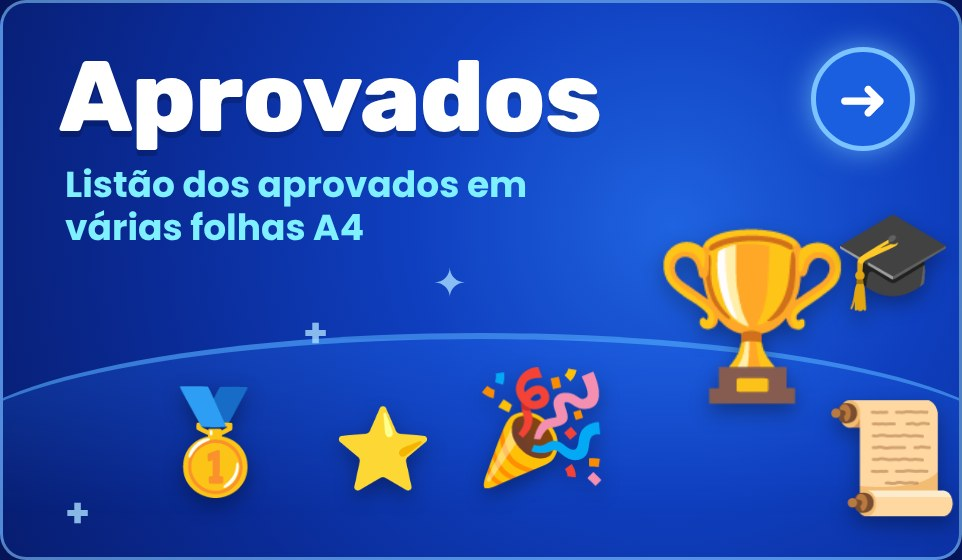
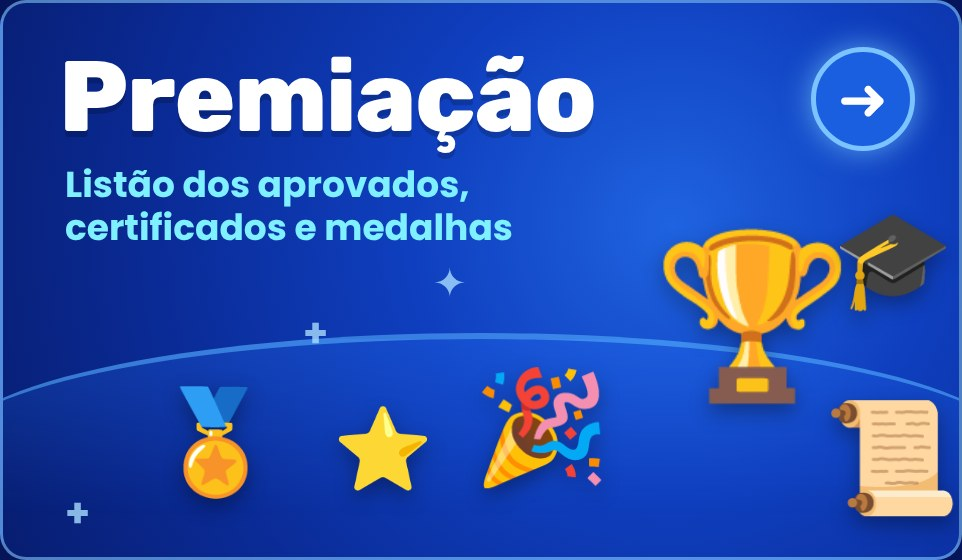
Premiação: certificados Aluno Nota 10 e Aluno Destaque (AEE) e folha de medalhas no modelo da escola, em PDF e Word
Claude-Session: https://claude.ai/code/session_01EnA51XFdjbCxLqLpJXARBK

diff --git a/certificados.js b/certificados.js
@@ -1,0 +1,166 @@
+/* Certificados (Aluno Nota 10 e Aluno Destaque/AEE) e folha de medalhas, no modelo da escola */
+(function () {
+  'use strict';
+  const $ = s => document.querySelector(s);
+  const esc = s => String(s == null ? '' : s).replace(/[&<>"]/g, c => ({ '&': '&amp;', '<': '&lt;', '>': '&gt;', '"': '&quot;' }[c]));
+  const P = 'assets/premiacao/', V = '?v=1';
+  const TIPOS = { nota10: { nome: 'Aluno Nota 10', fundo: P + 'cert-nota10.jpg' + V, medalha: 'ALUNO NOTA 10', cor: '#1e4fb8' }, destaque: { nome: 'Aluno Destaque (AEE)', fundo: P + 'cert-destaque.jpg' + V, medalha: 'ALUNO DESTAQUE', cor: '#ef6c00' } };
+  const TEXTO = 'É com muita honra que o SEI (Sistema de Ensino Incentivo) parabeniza o(a) prezado(a) aluno(a) {NOME}, pela sua dedicação e desempenho no {BIMESTRE} Bimestre de {ANO}.';
+  const CHAVE = 'sei-certificados';
+  const anoPad = () => { const d = new Date(); return String(d.getMonth() >= 1 ? d.getFullYear() : d.getFullYear() - 1); };
+  let st = { bim: '3º', ano: anoPad(), texto: TEXTO, nota10: '', destaque: '' };
+  try { Object.assign(st, JSON.parse(localStorage.getItem(CHAVE) || '{}')); } catch (e) {}
+  const guardar = () => { try { localStorage.setItem(CHAVE, JSON.stringify(st)); } catch (e) {} };
+  const nomes = tipo => (st[tipo] || '').split(/\r?\n/).map(s => s.replace(/^\s*\d+[\s.)-]*/, '').trim().toUpperCase()).filter(Boolean);
+  const carregar = (g, src) => window[g] ? Promise.resolve() : new Promise((ok, er) => { const s = document.createElement('script'); s.src = src; s.onload = ok; s.onerror = er; document.head.append(s); });
+  const imagem = src => new Promise((ok, er) => { const i = new Image(); i.onload = () => ok(i); i.onerror = er; i.src = src; });
+
+  /* ---------- texto do certificado (justificado, nome em negrito itálico) ---------- */
+  // medidas do modelo, em pontos (folha A4 deitada 842 × 595)
+  const G = { x: 20, w: 805, base: 291.5, tam: 28.7, entre: 40.6, maxLin: 4, esc: .785 }; // esc: letra condensada como no modelo (80%)
+  function pedacos(nome) {
+    const t = (st.texto || TEXTO).replace(/\{BIMESTRE\}/g, st.bim).replace(/\{ANO\}/g, st.ano), [a, b = ''] = t.split('{NOME}'), out = [];
+    const poe = (s, f) => s.split(/\s+/).filter(Boolean).forEach(w => out.push({ t: w, f })); poe(a, 'bold');
+    nome.split(/\s+/).filter(Boolean).forEach(w => out.push({ t: w, f: 'bolditalic' }));
+    const m = /^([,.;:!?]+)(.*)$/s.exec(b); if (m) { out.push({ t: m[1], f: 'bold', cola: true }); poe(m[2], 'bold'); } else poe(b, 'bold');
+    return out;
+  }
+  // quebra em linhas; mede(texto, fonte) devolve a largura no tamanho atual
+  function linhas(tk, mede, larg) {
+    const ls = [[]]; let w = 0; const esp = mede(' ', 'bold');
+    tk.forEach(p => { const pw = mede(p.t, p.f), add = (ls[ls.length - 1].length && !p.cola ? esp : 0) + pw; if (w + add > larg && ls[ls.length - 1].length && !p.cola) { ls.push([]); w = 0; } ls[ls.length - 1].push(Object.assign({ w: pw }, p)); w += (ls[ls.length - 1].length > 1 && !p.cola ? esp : 0) + pw; });
+    return ls;
+  }
+  function escreve(doc, nome) {
+    const tk = pedacos(nome); let tam = G.tam, ls;
+    const mede = (t, f) => { doc.setFont('times', f); doc.setFontSize(tam); return doc.getTextWidth(t) * G.esc; };
+    for (;;) { ls = linhas(tk, mede, G.w); if (ls.length <= G.maxLin || tam < 16) break; tam -= 1; }
+    const lh = G.entre * tam / G.tam; doc.setTextColor(0, 0, 0); doc.internal.write(`${G.esc * 100} Tz`);
+    ls.forEach((l, i) => { const ultima = i === ls.length - 1, gaps = l.filter((p, k) => k && !p.cola).length, soma = l.reduce((s, p) => s + p.w, 0), esp = mede(' ', 'bold');
+      const extra = ultima || !gaps ? esp : (G.w - soma) / gaps; let x = G.x; const y = G.base + i * lh;
+      l.forEach((p, k) => { if (k && !p.cola) x += extra; doc.setFont('times', p.f); doc.setFontSize(tam); doc.text(p.t, x, y); x += p.w; }); });
+    doc.internal.write('100 Tz');
+  }
+
+  /* ---------- medalha ---------- */
+  let baseMed = null;
+  async function medalha(tipo) {
+    if (!baseMed) baseMed = await imagem(P + 'medalha-base.png' + V);
+    if (document.fonts) await document.fonts.load('40px SeiRubik');
+    const cv = document.createElement('canvas'); cv.width = baseMed.width; cv.height = baseMed.height; const g = cv.getContext('2d'); g.drawImage(baseMed, 0, 0);
+    const W = cv.width, k = W / 93.96, linha = (txt, tam, y, max) => { const f = tam * k; g.font = `${f}px SeiRubik, "Arial Black", sans-serif`; const sx = Math.min(.86, max * W / g.measureText(txt).width);
+      g.save(); g.translate(W / 2, y * k); g.scale(sx, 1); g.textAlign = 'center'; g.textBaseline = 'middle'; g.lineJoin = 'round'; g.lineWidth = f * .2; g.strokeStyle = '#231f20'; g.strokeText(txt, 0, 0); g.fillStyle = '#fff200'; g.fillText(txt, 0, 0); g.restore(); };
+    linha(`${TIPOS[tipo].medalha} (${st.ano})`, 10.2, 32.6, .84); linha(`${st.bim} BIMESTRE`, 6.6, 43.2, .34);
+    return cv;
+  }
+  // folha A4 em pé: 6 por linha, 8 linhas (48 por folha), no tamanho do modelo (33 mm)
+  const MED = { d: 93.97, h: 96.13, passoX: 95.24, passoY: 99.21, x0: 12.7, y0: 22.7, col: 6, lin: 8 };
+  async function medalhasLista() { const l = []; for (const t of ['nota10', 'destaque']) { const n = nomes(t).length; if (!n) continue; const cv = await medalha(t), url = cv.toDataURL('image/png'); for (let i = 0; i < n; i++) l.push({ t, url }); } return l; }
+
+  /* ---------- PDF ---------- */
+  const novoPdf = async (o) => { await carregar('html2pdf', 'assets/vendor/html2pdf.bundle.min.js'); return html2pdf().set({ jsPDF: { unit: 'pt', format: 'a4', orientation: o } }).from('<div></div>').toPdf().get('pdf'); };
+  async function certificadosPdf() {
+    const todos = ['nota10', 'destaque'].flatMap(t => nomes(t).map(n => [t, n])); if (!todos.length) return alert('Coloque pelo menos um nome.');
+    const doc = await novoPdf('l'), fundos = {};
+    for (const [i, [t, n]] of todos.entries()) { if (i) doc.addPage('a4', 'l'); if (!fundos[t]) fundos[t] = await imagem(TIPOS[t].fundo); doc.addImage(fundos[t], 'JPEG', 0, 0, 841.89, 595.28, 'f-' + t, 'FAST'); escreve(doc, n); }
+    doc.save(`Certificados-${st.bim}-Bimestre-${st.ano}.pdf`);
+  }
+  async function medalhasPdf() {
+    const l = await medalhasLista(); if (!l.length) return alert('Coloque pelo menos um nome.');
+    const doc = await novoPdf('p'), por = MED.col * MED.lin;
+    l.forEach((m, i) => { if (i && i % por === 0) doc.addPage('a4', 'p'); const j = i % por, c = j % MED.col, r = Math.floor(j / MED.col); doc.addImage(m.url, 'PNG', MED.x0 + c * MED.passoX, MED.y0 + r * MED.passoY, MED.d, MED.h, 'm-' + m.t, 'FAST'); });
+    doc.save(`Medalhas-${st.bim}-Bimestre-${st.ano}.pdf`);
+  }
+
+  /* ---------- Word ---------- */
+  const X = t => String(t).replace(/&/g, '&amp;').replace(/</g, '&lt;').replace(/>/g, '&gt;');
+  const NS = 'xmlns:w="http://schemas.openxmlformats.org/wordprocessingml/2006/main" xmlns:r="http://schemas.openxmlformats.org/officeDocument/2006/relationships" xmlns:wp="http://schemas.openxmlformats.org/drawingml/2006/wordprocessingDrawing" xmlns:a="http://schemas.openxmlformats.org/drawingml/2006/main" xmlns:pic="http://schemas.openxmlformats.org/drawingml/2006/picture"';
+  const desenho = (rid, id, cx, cy, ancorado) => { const g = `<a:graphic xmlns:a="http://schemas.openxmlformats.org/drawingml/2006/main"><a:graphicData uri="http://schemas.openxmlformats.org/drawingml/2006/picture"><pic:pic xmlns:pic="http://schemas.openxmlformats.org/drawingml/2006/picture"><pic:nvPicPr><pic:cNvPr id="${id}" name="Imagem ${id}"/><pic:cNvPicPr/></pic:nvPicPr><pic:blipFill><a:blip r:embed="${rid}"/><a:stretch><a:fillRect/></a:stretch></pic:blipFill><pic:spPr><a:xfrm><a:off x="0" y="0"/><a:ext cx="${cx}" cy="${cy}"/></a:xfrm><a:prstGeom prst="rect"><a:avLst/></a:prstGeom></pic:spPr></pic:pic></a:graphicData></a:graphic>`;
+    return ancorado ? `<w:r><w:drawing><wp:anchor distT="0" distB="0" distL="0" distR="0" simplePos="0" relativeHeight="1" behindDoc="1" locked="1" layoutInCell="1" allowOverlap="1"><wp:simplePos x="0" y="0"/><wp:positionH relativeFrom="page"><wp:posOffset>0</wp:posOffset></wp:positionH><wp:positionV relativeFrom="page"><wp:posOffset>0</wp:posOffset></wp:positionV><wp:extent cx="${cx}" cy="${cy}"/><wp:effectExtent l="0" t="0" r="0" b="0"/><wp:wrapNone/><wp:docPr id="${id}" name="Fundo ${id}"/><wp:cNvGraphicFramePr/>${g}</wp:anchor></w:drawing></w:r>`
+      : `<w:r><w:drawing><wp:inline distT="0" distB="0" distL="0" distR="0"><wp:extent cx="${cx}" cy="${cy}"/><wp:docPr id="${id}" name="Medalha ${id}"/><wp:cNvGraphicFramePr/>${g}</wp:inline></w:drawing></w:r>`; };
+  async function docx(corpo, midias, cabecalhos) {
+    await carregar('JSZip', 'assets/vendor/jszip.min.js'); const z = new JSZip();
+    z.file('[Content_Types].xml', `<?xml version="1.0" encoding="UTF-8" standalone="yes"?><Types xmlns="http://schemas.openxmlformats.org/package/2006/content-types"><Default Extension="rels" ContentType="application/vnd.openxmlformats-package.relationships+xml"/><Default Extension="xml" ContentType="application/xml"/><Default Extension="png" ContentType="image/png"/><Default Extension="jpeg" ContentType="image/jpeg"/><Override PartName="/word/document.xml" ContentType="application/vnd.openxmlformats-officedocument.wordprocessingml.document.main+xml"/><Override PartName="/word/settings.xml" ContentType="application/vnd.openxmlformats-officedocument.wordprocessingml.settings+xml"/>${cabecalhos.map((h, i) => `<Override PartName="/word/header${i + 1}.xml" ContentType="application/vnd.openxmlformats-officedocument.wordprocessingml.header+xml"/>`).join('')}</Types>`);
+    z.file('_rels/.rels', '<?xml version="1.0" encoding="UTF-8" standalone="yes"?><Relationships xmlns="http://schemas.openxmlformats.org/package/2006/relationships"><Relationship Id="rId1" Type="http://schemas.openxmlformats.org/officeDocument/2006/relationships/officeDocument" Target="word/document.xml"/></Relationships>');
+    z.file('word/settings.xml', '<?xml version="1.0" encoding="UTF-8" standalone="yes"?><w:settings xmlns:w="http://schemas.openxmlformats.org/wordprocessingml/2006/main"><w:zoom w:percent="100"/><w:compat><w:compatSetting w:name="compatibilityMode" w:uri="http://schemas.microsoft.com/office/word" w:val="15"/></w:compat></w:settings>');
+    let rels = '<?xml version="1.0" encoding="UTF-8" standalone="yes"?><Relationships xmlns="http://schemas.openxmlformats.org/package/2006/relationships"><Relationship Id="rSet" Type="http://schemas.openxmlformats.org/officeDocument/2006/relationships/settings" Target="settings.xml"/>';
+    for (const m of midias) { z.file('word/media/' + m.arq, m.dados); rels += `<Relationship Id="${m.rid}" Type="http://schemas.openxmlformats.org/officeDocument/2006/relationships/image" Target="media/${m.arq}"/>`; }
+    cabecalhos.forEach((h, i) => { if (h.dados) z.file('word/media/' + h.arq, h.dados); z.file(`word/header${i + 1}.xml`, `<?xml version="1.0" encoding="UTF-8" standalone="yes"?><w:hdr ${NS}><w:p><w:pPr><w:spacing w:before="0" w:after="0"/></w:pPr>${h.xml}</w:p></w:hdr>`); z.file(`word/_rels/header${i + 1}.xml.rels`, `<?xml version="1.0" encoding="UTF-8" standalone="yes"?><Relationships xmlns="http://schemas.openxmlformats.org/package/2006/relationships"><Relationship Id="${h.rid}" Type="http://schemas.openxmlformats.org/officeDocument/2006/relationships/image" Target="media/${h.arq}"/></Relationships>`); rels += `<Relationship Id="rH${i + 1}" Type="http://schemas.openxmlformats.org/officeDocument/2006/relationships/header" Target="header${i + 1}.xml"/>`; });
+    z.file('word/_rels/document.xml.rels', rels + '</Relationships>');
+    z.file('word/document.xml', `<?xml version="1.0" encoding="UTF-8" standalone="yes"?><w:document ${NS}><w:body>${corpo}</w:body></w:document>`);
+    return z.generateAsync({ type: 'blob', mimeType: 'application/vnd.openxmlformats-officedocument.wordprocessingml.document' });
+  }
+  const baixar = (blob, nome) => { const a = document.createElement('a'); a.href = URL.createObjectURL(blob); a.download = nome; document.body.append(a); a.click(); a.remove(); setTimeout(() => URL.revokeObjectURL(a.href), 5000); };
+  const bytes = async src => (await fetch(src)).arrayBuffer();
+  async function certificadosWord() {
+    const grupos = ['nota10', 'destaque'].map(t => [t, nomes(t)]).filter(g => g[1].length); if (!grupos.length) return alert('Coloque pelo menos um nome.');
+    const midias = [], cabs = []; let corpo = '';
+    const rPr = it => `<w:rPr><w:rFonts w:ascii="Times New Roman" w:hAnsi="Times New Roman" w:cs="Times New Roman"/><w:b/>${it ? '<w:i/>' : ''}<w:w w:val="80"/><w:sz w:val="57"/></w:rPr>`;
+    for (const [gi, [t, ns]] of grupos.entries()) {
+      const arq = `fundo-${t}.jpeg`, rid = 'rF' + gi; midias.push({ arq, rid: 'rDoc' + gi, dados: await bytes(TIPOS[t].fundo) }); cabs.push({ rid, arq, xml: desenho(rid, 900 + gi, 10692000, 7560000, true) });
+      ns.forEach((n, i) => { const txt = (st.texto || TEXTO).replace(/\{BIMESTRE\}/g, st.bim).replace(/\{ANO\}/g, st.ano), [a, b = ''] = txt.split('{NOME}'), ult = i === ns.length - 1, fimSec = ult;
+        const sect = `<w:sectPr><w:headerReference w:type="default" r:id="rH${gi + 1}"/><w:pgSz w:w="16838" w:h="11906" w:orient="landscape"/><w:pgMar w:top="5180" w:right="340" w:bottom="400" w:left="400" w:header="0" w:footer="0" w:gutter="0"/></w:sectPr>`;
+        const pPr = `<w:pPr>${i ? '<w:pageBreakBefore/>' : ''}<w:spacing w:before="0" w:after="0" w:line="812" w:lineRule="exact"/><w:jc w:val="both"/>${fimSec && gi < grupos.length - 1 ? sect : ''}</w:pPr>`;
+        corpo += `<w:p>${pPr}<w:r>${rPr(0)}<w:t xml:space="preserve">${X(a)}</w:t></w:r><w:r>${rPr(1)}<w:t xml:space="preserve">${X(n)}</w:t></w:r><w:r>${rPr(0)}<w:t xml:space="preserve">${X(b)}</w:t></w:r></w:p>`;
+        if (fimSec && gi === grupos.length - 1) corpo += sect; });
+    }
+    // as imagens de fundo ficam nos cabeçalhos (cada tipo com o seu)
+    const z = await docx(corpo, [], cabs.map((c, i) => Object.assign(c, { dados: midias[i].dados })));
+    baixar(z, `Certificados-${st.bim}-Bimestre-${st.ano}.docx`);
+  }
+  async function medalhasWord() {
+    const l = await medalhasLista(); if (!l.length) return alert('Coloque pelo menos um nome.');
+    const midias = [], rid = {}; let id = 1;
+    for (const t of [...new Set(l.map(m => m.t))]) { const url = l.find(m => m.t === t).url; rid[t] = 'rM' + t; midias.push({ arq: `medalha-${t}.png`, rid: rid[t], dados: await (await fetch(url)).arrayBuffer() }); }
+    const cx = Math.round(MED.d * 12700), cy = Math.round(MED.h * 12700), colW = Math.round(MED.passoX * 20), linH = Math.round(MED.passoY * 20); let corpo = '';
+    for (let i = 0; i < l.length; i += MED.col) { const lin = l.slice(i, i + MED.col);
+      corpo += `<w:tr><w:trPr><w:cantSplit/><w:trHeight w:val="${linH}" w:hRule="exact"/></w:trPr>${Array.from({ length: MED.col }, (_, k) => `<w:tc><w:tcPr><w:tcW w:w="${colW}" w:type="dxa"/><w:vAlign w:val="center"/></w:tcPr><w:p><w:pPr><w:spacing w:before="0" w:after="0"/><w:jc w:val="center"/></w:pPr>${lin[k] ? desenho(rid[lin[k].t], id++, cx, cy, false) : ''}</w:p></w:tc>`).join('')}</w:tr>`; }
+    const tbl = `<w:tbl><w:tblPr><w:tblW w:w="${colW * MED.col}" w:type="dxa"/><w:jc w:val="center"/><w:tblLayout w:type="fixed"/><w:tblCellMar><w:left w:w="0" w:type="dxa"/><w:right w:w="0" w:type="dxa"/></w:tblCellMar></w:tblPr><w:tblGrid>${`<w:gridCol w:w="${colW}"/>`.repeat(MED.col)}</w:tblGrid>${corpo}</w:tbl>`;
+    const sect = '<w:sectPr><w:pgSz w:w="11906" w:h="16838"/><w:pgMar w:top="454" w:right="226" w:bottom="226" w:left="226" w:header="0" w:footer="0" w:gutter="0"/></w:sectPr>';
+    baixar(await docx(tbl + '<w:p/>' + sect, midias, []), `Medalhas-${st.bim}-Bimestre-${st.ano}.docx`);
+  }
+
+  /* ---------- puxar do diário e do AEE ---------- */
+  async function puxarNota10() {
+    const D = window.seiDados; if (!D) return alert('Cadastro indisponível neste aparelho.'); const [al, bol] = await Promise.all([D.listar('alunos'), D.listar('boletins')]); const av = st.bim.replace('º', 'ª') + ' Avaliação';
+    const l = al.filter(a => { const ns = ((((bol.find(b => b.id === a.id) || {}).anos || {})[st.ano]) || {}).notas || {}; return Object.values(ns).some(d => +d[av] === 10); }).map(a => a.nome.toUpperCase()).sort();
+    if (!l.length) return alert(`Nenhum aluno com nota 10 na ${av} de ${st.ano} no diário deste aparelho. Digite os nomes.`); st.nota10 = l.join('\n'); guardar(); desenhar(); alert(l.length + ' aluno(s) com nota 10 na ' + av + '.');
+  }
+  async function puxarAee() {
+    const D = window.seiDados, l = new Set(); if (D) (await D.listar('alunos')).filter(a => a.aee && (a.situacao || 'Ativo') === 'Ativo').forEach(a => l.add(a.nome.toUpperCase()));
+    await new Promise(ok => { try { const r = indexedDB.open('sei-aee'); r.onsuccess = () => { const db = r.result; if (!db.objectStoreNames.contains('alunos')) return ok(); const q = db.transaction('alunos').objectStore('alunos').getAll(); q.onsuccess = () => { (q.result || []).forEach(a => a.nome && l.add(a.nome.toUpperCase())); ok(); }; q.onerror = ok; }; r.onerror = ok; } catch (e) { ok(); } });
+    if (!l.size) return alert('Nenhum aluno do AEE cadastrado neste aparelho. Digite os nomes.'); st.destaque = [...l].sort().join('\n'); guardar(); desenhar(); alert(l.size + ' aluno(s) do AEE.');
+  }
+
+  /* ---------- tela ---------- */
+  function previa(tipo, nome) {
+    const t = (st.texto || TEXTO).replace(/\{BIMESTRE\}/g, st.bim).replace(/\{ANO\}/g, st.ano), [a, b = ''] = t.split('{NOME}');
+    return `<div class="ct-folha" style="background-image:url(${TIPOS[tipo].fundo})"><p>${esc(a)}<i>${esc(nome)}</i>${esc(b)}</p></div>`;
+  }
+  function desenhar() {
+    const n1 = nomes('nota10'), n2 = nomes('destaque'), tot = n1.length + n2.length, folhasMed = Math.ceil(tot / (MED.col * MED.lin));
+    $('#ct').innerHTML = `<section class="es-sec"><h2>🏅 Certificados e medalhas</h2><p class="es-dica">No modelo da escola. Escolha o bimestre, coloque os nomes e baixe os <b>certificados</b> (um por folha A4 deitada) e a <b>folha de medalhas</b> (48 por folha A4, 3,3 cm cada) — em PDF ou Word.</p>
+      <form class="es-form" id="ct-f"><div class="es-g3"><label>Bimestre<select name="bim">${['1º', '2º', '3º', '4º'].map(b => `<option ${b === st.bim ? 'selected' : ''}>${b}</option>`).join('')}</select></label><label>Ano<input name="ano" inputmode="numeric" value="${esc(st.ano)}"></label></div>
+      <label>Texto do certificado <small>({NOME}, {BIMESTRE} e {ANO} são trocados sozinhos)</small><textarea name="texto" style="min-height:80px">${esc(st.texto)}</textarea></label><div class="es-acoes" style="margin:0"><button type="button" class="b" id="ct-padrao">↺ Texto padrão</button></div></form>
+      <div class="es-g2" style="margin-top:14px">
+        <div class="lt-turma" style="--c:#1e4fb8"><div class="es-linha"><b style="flex:1;font-size:17px">🔟 Aluno Nota 10</b><span class="chip">${n1.length}</span><button class="b" id="ct-p10">↧ Puxar do diário</button></div><textarea data-l="nota10" placeholder="Um nome por linha">${esc(st.nota10)}</textarea></div>
+        <div class="lt-turma" style="--c:#ef6c00"><div class="es-linha"><b style="flex:1;font-size:17px">⭐ Aluno Destaque (AEE)</b><span class="chip">${n2.length}</span><button class="b" id="ct-paee">↧ Puxar do AEE</button></div><textarea data-l="destaque" placeholder="Um nome por linha">${esc(st.destaque)}</textarea></div></div>
+      <div class="es-acoes" style="margin-top:14px"><button class="b main" id="ct-cpdf">📄 Certificados (PDF)</button><button class="b" id="ct-cdoc">⬇ Certificados (Word)</button><button class="b main" id="ct-mpdf">🏅 Medalhas (PDF)</button><button class="b" id="ct-mdoc">⬇ Medalhas (Word)</button></div>
+      <p class="es-dica">${tot ? `Vai gerar <b>${tot} certificado(s)</b> e <b>${tot} medalha(s)</b> em ${folhasMed} folha(s). Imprima em tamanho real (100%).` : 'Coloque os nomes para gerar.'}</p>
+      <h2 style="margin-top:10px">👀 Prévia</h2><div class="ct-prev">${n1.length ? previa('nota10', n1[0]) : ''}${n2.length ? previa('destaque', n2[0]) : ''}${!tot ? previa('nota10', 'NOME DO ALUNO') : ''}<div class="ct-meds" id="ct-meds"></div></div></section>`;
+    const f = $('#ct-f'); f.oninput = f.onchange = e => { const d = new FormData(f); const re = e.type === 'change' && (st.bim !== d.get('bim') || st.ano !== d.get('ano').trim()); Object.assign(st, { bim: d.get('bim'), ano: d.get('ano').trim(), texto: d.get('texto') }); guardar(); if (re) desenhar(); else document.querySelectorAll('.ct-folha p').forEach((p, i) => { const tipo = i === 1 || (!n1.length && n2.length) ? 'destaque' : 'nota10'; const nm = (tipo === 'nota10' ? n1[0] : n2[0]) || 'NOME DO ALUNO'; p.outerHTML = previa(tipo, nm).replace(/^<div[^>]*>|<\/div>$/g, ''); }); };
+    document.querySelectorAll('[data-l]').forEach(t => { t.oninput = () => { st[t.dataset.l] = t.value; guardar(); }; t.onchange = desenhar; });
+    ajustaPrev(); (async () => { const box = $('#ct-meds'); for (const t of ['nota10', 'destaque']) { if (!nomes(t).length && tot) continue; const cv = await medalha(t); cv.style.width = '110px'; cv.style.height = 'auto'; box.append(cv); } })();
+  }
+  function ajustaPrev() { document.querySelectorAll('.ct-folha').forEach(d => { d.style.fontSize = (d.clientWidth * G.tam / 842) + 'px'; }); }
+  addEventListener('resize', ajustaPrev);
+  document.addEventListener('click', async e => {
+    const b = e.target.closest('button'); if (!b || !b.id.startsWith('ct-')) return;
+    if (b.id === 'ct-padrao') { st.texto = TEXTO; guardar(); return desenhar(); }
+    if (b.id === 'ct-p10') return puxarNota10();
+    if (b.id === 'ct-paee') return puxarAee();
+    const fn = { 'ct-cpdf': certificadosPdf, 'ct-cdoc': certificadosWord, 'ct-mpdf': medalhasPdf, 'ct-mdoc': medalhasWord }[b.id]; if (!fn) return;
+    const t0 = b.textContent; b.disabled = true; b.textContent = '⏳ Gerando…'; try { await fn(); } catch (er) { alert('Não consegui gerar: ' + (er && er.message || er)); } b.disabled = false; b.textContent = t0;
+  });
+  desenhar();
+})();

diff --git a/portal.js b/portal.js
@@ -8,7 +8,7 @@ const labels=['Fundamental I — 1º ao 5º ano','Fundamental II — 6º ao 9º 
 const home=document.createElement('section');home.className='portal-home';home.setAttribute('aria-label','Biblioteca Digital SEI — materiais da escola');
 home.innerHTML='<img class="portal-art" src="'+art+'" alt="Mascote e logomarca SEI. Aqui se faz educação com qualidade. Biblioteca Digital SEI. Materiais da escola."><div class="brand-shimmer" aria-hidden="true"></div><div class="mascot-motion" aria-hidden="true"></div><button class="motion-toggle" aria-pressed="false">Pausar animações</button>';
 labels.forEach((label,i)=>{const b=document.createElement('button');b.className='portal-entry entry-'+i;b.setAttribute('aria-label',label);b.innerHTML='<span class="sr-only">'+label+'</span>';if(i===2||i===3){const label=document.createElement('span');label.className='series-home-label';label.textContent=i===2?'1ª e 2ª série':'3ª série (Convênio)';b.append(label)}b.onclick=()=>go(i,null,null);home.append(b)});
-{const ex=document.createElement('nav');ex.className='home-extra';ex.setAttribute('aria-label','Atendimento e gestão');ex.innerHTML=[['#ensino','capa-ensino','Ensino — Fundamental, Médio e Pré-vestibular'],['aee.html','capa-aee','AEE — Atendimento Educacional Especializado'],['secretaria.html','capa-secretaria','Secretaria — documentos da escola'],['coordenacao.html','capa-coordenacao','Coordenação pedagógica'],['escola.html','capa-gestao','Gestão Escolar — prazos, cronograma, diário e cadastro'],['avisos.html','capa-avisos','Avisos e comunicados'],['pais.html','capa-pais','Área das Famílias — avisos, notas e documentos do seu filho'],['calendario.html','capa-calendario','Calendário escolar'],['horarios.html','capa-horario','Horário de aula'],['financeiro.html','capa-financeiro','Financeiro — contratos, recibos e pagamentos'],['material.html','capa-material','Material escolar — listas 2027'],['institucional.html','capa-institucional','Institucional — Regimento Escolar e PPP'],['listao.html','capa-listao','Aprovados — listão dos aprovados em várias folhas A4']].map(c=>'<a class="extra-card" href="'+c[0]+'" style="background-image:url(assets/portal/'+c[1]+'.jpg?v=2)"><span class="sr-only">'+c[2]+'</span></a>').join('');home.append(ex)}
+{const ex=document.createElement('nav');ex.className='home-extra';ex.setAttribute('aria-label','Atendimento e gestão');ex.innerHTML=[['#ensino','capa-ensino','Ensino — Fundamental, Médio e Pré-vestibular'],['aee.html','capa-aee','AEE — Atendimento Educacional Especializado'],['secretaria.html','capa-secretaria','Secretaria — documentos da escola'],['coordenacao.html','capa-coordenacao','Coordenação pedagógica'],['escola.html','capa-gestao','Gestão Escolar — prazos, cronograma, diário e cadastro'],['avisos.html','capa-avisos','Avisos e comunicados'],['pais.html','capa-pais','Área das Famílias — avisos, notas e documentos do seu filho'],['calendario.html','capa-calendario','Calendário escolar'],['horarios.html','capa-horario','Horário de aula'],['financeiro.html','capa-financeiro','Financeiro — contratos, recibos e pagamentos'],['material.html','capa-material','Material escolar — listas 2027'],['institucional.html','capa-institucional','Institucional — Regimento Escolar e PPP'],['listao.html','capa-listao','Premiação — listão dos aprovados, certificados e medalhas']].map(c=>'<a class="extra-card" href="'+c[0]+'" style="background-image:url(assets/portal/'+c[1]+'.jpg?v=2)"><span class="sr-only">'+c[2]+'</span></a>').join('');home.append(ex)}
 {const vb=document.createElement('button');vb.className='ensino-voltar';vb.textContent='‹ Início';vb.onclick=()=>{history.pushState(null,'',location.pathname);seiEnsino()};home.prepend(vb);
 home.querySelector('.home-extra a[href="#ensino"]').onclick=e=>{e.preventDefault();history.pushState(null,'','#ensino');seiEnsino();window.scrollTo({top:0})};}
 header.after(home);

diff --git a/sw.js b/sw.js
@@ -1,6 +1,6 @@
 /* Biblioteca SEI offline: guarda o site e os arquivos para usar sem internet. */
-const CORE = 'sei-core-v64', FILES = 'sei-arquivos-v6';
-const CORE_LIST = ['./', 'index.html', 'montar.html', 'montar.js', 'montar.css', 'portal.js', 'portal.css', 'impressao.js', 'impressao.css', 'formatacao.js', 'formulas.js', 'word-pb.js', 'avaliacao.js', 'aee.html', 'aee.js', 'aee.css', 'secretaria.html', 'coordenacao.html', 'material.html', 'assets/portal/capa-material.jpg', 'institucional.html', 'assets/portal/capa-institucional.jpg', 'escola.html', 'escola.js', 'escola.css', 'escola-dados.js', 'nuvem.js', 'nuvem-config.js', 'pais.html', 'pais.js', 'assets/portal/capa-gestao.jpg', 'assets/portal/capa-pais.jpg', 'listao.html', 'listao.js', 'assets/portal/capa-listao.jpg', 'assets/vendor/html2canvas-1.4.1.min.js', 'docs.js', 'docs.css', 'baixar-doc.js', 'folha-doc.js', 'editor-doc.js', 'contrato-modelo.js', 'assets/docs/folha-cab.jpg', 'assets/docs/folha-fundo.jpg', 'assets/docs/logo-sei.png', 'assets/docs/mascote-sei.png', 'assets/docs/selo-n1.png', 'assets/docs/logo-sei.jpg', 'avisos.html', 'calendario.html', 'horarios.html', 'financeiro.html', 'biblioteca.js', 'catalogo.js', 'sei-header-art.js', 'sei-standard.js', 'modelo-word.js', 'ajustar-word.js','aulas.html','aulas.js','aulas.css','aulas-dados.js','montar-aula.js','assets/bncc/bncc.json', 'manifest.webmanifest', 'assets/vendor/jszip.min.js', 'assets/vendor/mammoth.browser.min.js', 'assets/montar/molduras.json', 'assets/portal/icone-192.png', 'assets/portal/icone-512.png','assets/portal/entrada-sei-v2.png'];
+const CORE = 'sei-core-v65', FILES = 'sei-arquivos-v6';
+const CORE_LIST = ['./', 'index.html', 'montar.html', 'montar.js', 'montar.css', 'portal.js', 'portal.css', 'impressao.js', 'impressao.css', 'formatacao.js', 'formulas.js', 'word-pb.js', 'avaliacao.js', 'aee.html', 'aee.js', 'aee.css', 'secretaria.html', 'coordenacao.html', 'material.html', 'assets/portal/capa-material.jpg', 'institucional.html', 'assets/portal/capa-institucional.jpg', 'escola.html', 'escola.js', 'escola.css', 'escola-dados.js', 'nuvem.js', 'nuvem-config.js', 'pais.html', 'pais.js', 'assets/portal/capa-gestao.jpg', 'assets/portal/capa-pais.jpg', 'listao.html', 'listao.js', 'certificados.html', 'certificados.js', 'assets/premiacao/cert-nota10.jpg', 'assets/premiacao/cert-destaque.jpg', 'assets/premiacao/medalha-base.png', 'assets/portal/capa-listao.jpg', 'assets/vendor/html2canvas-1.4.1.min.js', 'docs.js', 'docs.css', 'baixar-doc.js', 'folha-doc.js', 'editor-doc.js', 'contrato-modelo.js', 'assets/docs/folha-cab.jpg', 'assets/docs/folha-fundo.jpg', 'assets/docs/logo-sei.png', 'assets/docs/mascote-sei.png', 'assets/docs/selo-n1.png', 'assets/docs/logo-sei.jpg', 'avisos.html', 'calendario.html', 'horarios.html', 'financeiro.html', 'biblioteca.js', 'catalogo.js', 'sei-header-art.js', 'sei-standard.js', 'modelo-word.js', 'ajustar-word.js','aulas.html','aulas.js','aulas.css','aulas-dados.js','montar-aula.js','assets/bncc/bncc.json', 'manifest.webmanifest', 'assets/vendor/jszip.min.js', 'assets/vendor/mammoth.browser.min.js', 'assets/montar/molduras.json', 'assets/portal/icone-192.png', 'assets/portal/icone-512.png','assets/portal/entrada-sei-v2.png'];
 self.addEventListener('install', e => { e.waitUntil(caches.open(CORE).then(c => Promise.all(CORE_LIST.map(u => c.add(u).catch(() => null)))).then(() => self.skipWaiting())); });
 self.addEventListener('activate', e => { e.waitUntil(caches.keys().then(ks => Promise.all(ks.filter(k => k !== CORE && k !== FILES).map(k => caches.delete(k)))).then(() => self.clients.claim())); });
 const isFile = u => /\/assets\//.test(u.pathname);

diff --git a/certificados.html b/certificados.html
@@ -1,0 +1,39 @@
+<!doctype html>
+<html lang="pt-BR">
+<head>
+<meta charset="utf-8">
+<meta name="viewport" content="width=device-width,initial-scale=1">
+<title>Certificados e Medalhas · SEI</title>
+<link rel="manifest" href="manifest.webmanifest">
+<meta name="theme-color" content="#0b2a5b">
+<meta name="robots" content="noindex">
+<link rel="stylesheet" href="aulas.css?v=3-aval">
+<link rel="stylesheet" href="escola.css?v=2">
+<link rel="icon" type="image/png" href="favicon.png?v=2"><link rel="apple-touch-icon" href="assets/portal/apple-touch-icon.png?v=2">
+<style>
+@font-face{font-family:SeiRubik;src:url(assets/fonts/Rubik-ExtraBold.ttf)}
+.lt-turma{background:#fff;border-radius:14px;padding:12px;box-shadow:0 2px 10px rgba(11,42,91,.10);border-left:6px solid var(--c,#1e4fb8);display:flex;flex-direction:column;gap:8px}
+.lt-turma textarea{font:inherit;padding:8px 10px;border:1px solid var(--bd);border-radius:9px;min-height:170px;width:100%;text-transform:uppercase}
+.ct-prev{display:flex;flex-direction:column;gap:14px}
+.ct-folha{position:relative;width:100%;max-width:760px;aspect-ratio:297/210;background:#fff center/100% 100% no-repeat;box-shadow:0 6px 20px rgba(0,0,0,.25);border-radius:4px}
+.ct-folha p{position:absolute;left:2.38%;width:119.5%;transform:scaleX(.8);transform-origin:0 0;top:45.6%;margin:0;font:700 1em/1.415 "Times New Roman",Tinos,"Liberation Serif",serif;text-align:justify;color:#000}
+.ct-folha p i{font-style:italic}
+.ct-meds{display:flex;gap:12px;flex-wrap:wrap}
+.pr-nav{display:flex;gap:6px;max-width:1100px;margin:14px auto 0;padding:0 16px;flex-wrap:wrap}
+.pr-nav a{font:700 15px system-ui,Arial;border-radius:12px 12px 0 0;padding:10px 16px;background:rgba(255,255,255,.18);color:#fff;text-decoration:none}
+.pr-nav a.on{background:#fff;color:#0b2a5b}
+</style>
+</head>
+<body>
+<header class="no-print">
+  <a class="b" href="index.html">‹ Biblioteca</a>
+  <h1>🏆 Premiação <small>Listão, certificados e medalhas</small></h1>
+</header>
+<nav class="pr-nav"><a href="listao.html">🎓 Listão dos aprovados</a><a href="certificados.html" class="on">🏅 Certificados e medalhas</a></nav>
+<main id="ct"></main>
+<footer class="no-print"><p>Os nomes ficam guardados <b>neste aparelho</b>. Imprima sempre em <b>tamanho real (100%)</b>.</p></footer>
+<script src="escola-dados.js?v=2"></script>
+<script src="certificados.js?v=1"></script>
+<script src="offline.js?v=3"></script>
+</body>
+</html>

diff --git a/listao.html b/listao.html
@@ -66,13 +66,17 @@
 .cz.festa .cz-acoes{background:rgba(255,255,255,.08);border-top:.08em solid rgba(255,255,255,.18);color:#e9eeff}
 .cz.leve .cz-acoes{background:#fff;border-top:.08em solid #e3e6f3;color:#140a52}
 .cz-acoes span:nth-child(2){flex:1}.cz-ic{letter-spacing:.2em}.cz-tags{color:#7df9ff;font-weight:700}.cz.leve .cz-tags{color:#007a90}
+.pr-nav{display:flex;gap:6px;max-width:1100px;margin:14px auto 0;padding:0 16px;flex-wrap:wrap}
+.pr-nav a{font:700 15px system-ui,Arial;border-radius:12px 12px 0 0;padding:10px 16px;background:rgba(255,255,255,.18);color:#fff;text-decoration:none}
+.pr-nav a.on{background:#fff;color:#0b2a5b}
 </style>
 </head>
 <body>
 <header class="no-print">
   <a class="b" href="index.html">‹ Biblioteca</a>
-  <h1>🏆 Listão dos Aprovados <small>Painel em várias folhas A4</small></h1>
+  <h1>🏆 Premiação <small>Listão, certificados e medalhas</small></h1>
 </header>
+<nav class="pr-nav"><a href="listao.html" class="on">🎓 Listão dos aprovados</a><a href="certificados.html">🏅 Certificados e medalhas</a></nav>
 <main id="lt"></main>
 <footer class="no-print"><p>O rascunho fica guardado <b>neste aparelho</b>. Imprima sempre em <b>tamanho real (100%)</b>, depois corte nas marcas e monte o painel seguindo o número de cada folha.</p></footer>
 <script src="escola-dados.js?v=2"></script>
